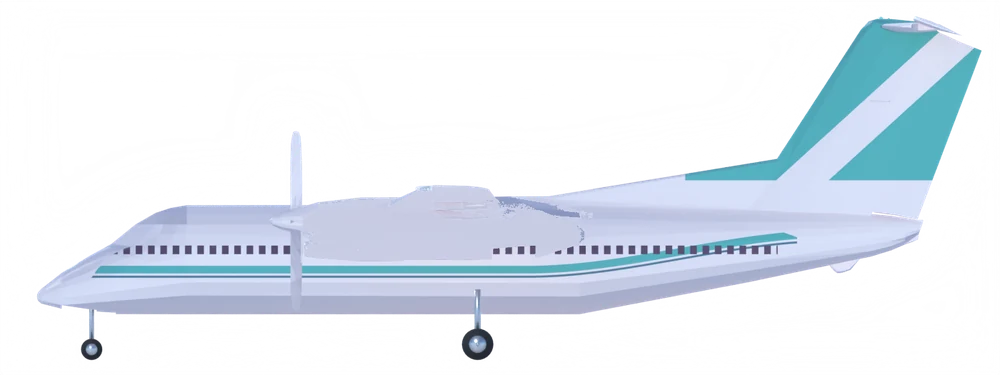
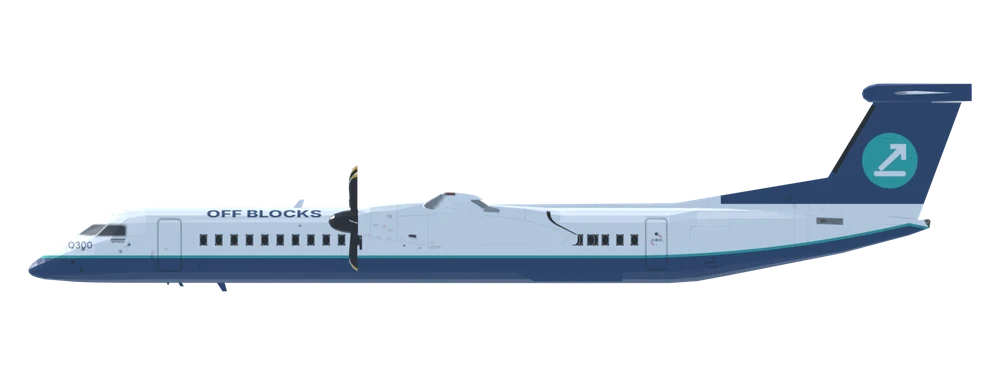
Off Blocks livery renders: turboprops (ATR72, Q400, Q300, SF340)
Claude-Session: https://claude.ai/code/session_01XrFePU9h1hCzy7p7tSHsYD

Changed region(s): [[0.031, 0.0293, 0.992, 0.968]]

diff --git a/sw.js b/sw.js
@@ -1,5 +1,5 @@
 /* Off Blocks service worker. Bump VER to push an update to installed copies. */
-const VER='ob-v48',CORE=["./", "index.html", "manifest.webmanifest", "network.json", "icons/icon-192.png", "icons/icon-512.png", "mapimg/detail.json", "mapimg/sat.webp", "mapimg/terrain.webp", "img/A19N.webp", "img/A19N_side.webp", "img/A20N.webp", "img/A20N_side.webp", "img/A21N.webp", "img/A21N_side.webp", "img/A21X.webp", "img/A21X_side.webp", "img/A306_side.webp", "img/A310.webp", "img/A310_side.webp", "img/A318.webp", "img/A318_side.webp", "img/A319.webp", "img/A319_side.webp", "img/A320.webp", "img/A320_side.webp", "img/A321.webp", "img/A321_side.webp", "img/A332_side.webp", "img/A333_side.webp", "img/A338.webp", "img/A338_side.webp", "img/A339.webp", "img/A339_side.webp", "img/A343_side.webp", "img/A346_side.webp", "img/A359_side.webp", "img/A35K.webp", "img/A35K_side.webp", "img/A388_side.webp", "img/AN24.webp", "img/AR21.webp", "img/AT42_side.webp", "img/AT76_side.webp", "img/B190.webp", "img/B37M.webp", "img/B37M_side.webp", "img/B38M.webp", "img/B38M_side.webp", "img/B39M.webp", "img/B39M_side.webp", "img/B3XM.webp", "img/B3XM_side.webp", "img/B712.webp", "img/B712_side.webp", "img/B722_side.webp", "img/B732.webp", "img/B732_side.webp", "img/B733_side.webp", "img/B734_side.webp", "img/B735.webp", "img/B735_side.webp", "img/B736_side.webp", "img/B737_side.webp", "img/B738_side.webp", "img/B739_side.webp", "img/B744_side.webp", "img/B748_side.webp", "img/B752.webp", "img/B752_side.webp", "img/B753.webp", "img/B753_side.webp", "img/B762.webp", "img/B762_side.webp", "img/B763_side.webp", "img/B764.webp", "img/B764_side.webp", "img/B772_side.webp", "img/B773.webp", "img/B773_side.webp", "img/B779.webp", "img/B779_side.webp", "img/B77L_side.webp", "img/B77W_side.webp", "img/B788_side.webp", "img/B789_side.webp", "img/B78X_side.webp", "img/BCS1_side.webp", "img/BCS3_side.webp", "img/C208.webp", "img/C208_side.webp", "img/C919.webp", "img/C919_side.webp", "img/CRJ2.webp", "img/CRJ2_side.webp", "img/CRJ7_side.webp", "img/CRJ9.webp", "img/CRJ9_side.webp", "img/CRJX_side.webp", "img/D328.webp", "img/DH8A.webp", "img/DH8A_side.webp", "img/DH8C_side.webp", "img/DH8D_side.webp", "img/DHC6_side.webp", "img/E120.webp", "img/E120_side.webp", "img/E135.webp", "img/E135_side.webp", "img/E140.webp", "img/E140_side.webp", "img/E145.webp", "img/E145_side.webp", "img/E170_side.webp", "img/E175_side.webp", "img/E190_side.webp", "img/E195.webp", "img/E195_side.webp", "img/E290_side.webp", "img/E295.webp", "img/E295_side.webp", "img/E75X.webp", "img/E75X_side.webp", "img/F100.webp", "img/F100_side.webp", "img/F50.webp", "img/F50_side.webp", "img/F70.webp", "img/F70_side.webp", "img/J41.webp", "img/L410.webp", "img/L410_side.webp", "img/MA60.webp", "img/MD83.webp", "img/MD83_side.webp", "img/MD90.webp", "img/MD90_side.webp", "img/RJ1H.webp", "img/RJ1H_side.webp", "img/RJ85.webp", "img/RJ85_side.webp", "img/SB20.webp", "img/SF34_side.webp", "img/T154.webp", "img/T154_side.webp"];
+const VER='ob-v49',CORE=["./", "index.html", "manifest.webmanifest", "network.json", "icons/icon-192.png", "icons/icon-512.png", "mapimg/detail.json", "mapimg/sat.webp", "mapimg/terrain.webp", "img/A19N.webp", "img/A19N_side.webp", "img/A20N.webp", "img/A20N_side.webp", "img/A21N.webp", "img/A21N_side.webp", "img/A21X.webp", "img/A21X_side.webp", "img/A306_side.webp", "img/A310.webp", "img/A310_side.webp", "img/A318.webp", "img/A318_side.webp", "img/A319.webp", "img/A319_side.webp", "img/A320.webp", "img/A320_side.webp", "img/A321.webp", "img/A321_side.webp", "img/A332_side.webp", "img/A333_side.webp", "img/A338.webp", "img/A338_side.webp", "img/A339.webp", "img/A339_side.webp", "img/A343_side.webp", "img/A346_side.webp", "img/A359_side.webp", "img/A35K.webp", "img/A35K_side.webp", "img/A388_side.webp", "img/AN24.webp", "img/AR21.webp", "img/AT42_side.webp", "img/AT76_side.webp", "img/B190.webp", "img/B37M.webp", "img/B37M_side.webp", "img/B38M.webp", "img/B38M_side.webp", "img/B39M.webp", "img/B39M_side.webp", "img/B3XM.webp", "img/B3XM_side.webp", "img/B712.webp", "img/B712_side.webp", "img/B722_side.webp", "img/B732.webp", "img/B732_side.webp", "img/B733_side.webp", "img/B734_side.webp", "img/B735.webp", "img/B735_side.webp", "img/B736_side.webp", "img/B737_side.webp", "img/B738_side.webp", "img/B739_side.webp", "img/B744_side.webp", "img/B748_side.webp", "img/B752.webp", "img/B752_side.webp", "img/B753.webp", "img/B753_side.webp", "img/B762.webp", "img/B762_side.webp", "img/B763_side.webp", "img/B764.webp", "img/B764_side.webp", "img/B772_side.webp", "img/B773.webp", "img/B773_side.webp", "img/B779.webp", "img/B779_side.webp", "img/B77L_side.webp", "img/B77W_side.webp", "img/B788_side.webp", "img/B789_side.webp", "img/B78X_side.webp", "img/BCS1_side.webp", "img/BCS3_side.webp", "img/C208.webp", "img/C208_side.webp", "img/C919.webp", "img/C919_side.webp", "img/CRJ2.webp", "img/CRJ2_side.webp", "img/CRJ7_side.webp", "img/CRJ9.webp", "img/CRJ9_side.webp", "img/CRJX_side.webp", "img/D328.webp", "img/DH8A.webp", "img/DH8A_side.webp", "img/DH8C_side.webp", "img/DH8D_side.webp", "img/DHC6_side.webp", "img/E120.webp", "img/E120_side.webp", "img/E135.webp", "img/E135_side.webp", "img/E140.webp", "img/E140_side.webp", "img/E145.webp", "img/E145_side.webp", "img/E170_side.webp", "img/E175_side.webp", "img/E190_side.webp", "img/E195.webp", "img/E195_side.webp", "img/E290_side.webp", "img/E295.webp", "img/E295_side.webp", "img/E75X.webp", "img/E75X_side.webp", "img/F100.webp", "img/F100_side.webp", "img/F50.webp", "img/F50_side.webp", "img/F70.webp", "img/F70_side.webp", "img/J41.webp", "img/L410.webp", "img/L410_side.webp", "img/MA60.webp", "img/MD83.webp", "img/MD83_side.webp", "img/MD90.webp", "img/MD90_side.webp", "img/RJ1H.webp", "img/RJ1H_side.webp", "img/RJ85.webp", "img/RJ85_side.webp", "img/SB20.webp", "img/SF34_side.webp", "img/T154.webp", "img/T154_side.webp"];
 self.addEventListener('install',e=>{e.waitUntil(caches.open(VER).then(c=>Promise.all(CORE.map(u=>c.add(u).catch(()=>0)))).then(()=>self.skipWaiting()))});
 self.addEventListener('activate',e=>{e.waitUntil(caches.keys().then(k=>Promise.all(k.filter(x=>x!==VER).map(x=>caches.delete(x)))).then(()=>self.clients.claim()))});
 self.addEventListener('fetch',e=>{const r=e.request,u=new URL(r.url);if(r.method!=='GET'||u.origin!==location.origin)return;

diff --git a/index.html b/index.html
@@ -180,7 +180,7 @@ const lvBase=src=>new Promise(res=>{if(LVI.base[src])return res(LVI.base[src]);c
 const PHOTOS_OFF={B39M:{src:'img/B39M_photo.webp',by:'Clemens Vasters',lic:'CC BY 2.0',lu:'https://creativecommons.org/licenses/by/2.0/',url:'https://commons.wikimedia.org/wiki/File:N7379E_-_Boeing_737_MAX_9.jpg',n:'Boeing 737 MAX 9'}};
 const PHOTOS={};
 /* types with a finished Off Blocks livery render: shown as-is, no repaint */
-const LVNAT={B38M:1,B39M:1,A318:1,A319:1,A320:1,A321:1,A19N:1,A20N:1,A21N:1,A21X:1,A332:1,A333:1,A338:1,A339:1,A343:1,A346:1,A359:1,A35K:1,B772:1,B773:1,B77L:1,B77W:1,B777:1,B779:1,B788:1,B789:1,B78X:1,B787:1,B752:1,B753:1,B762:1,B763:1,B764:1,E170:1,E175:1,E75L:1,E75X:1,E190:1,E195:1,E290:1,E295:1,CRJ7:1,CRJ2:1,CRJ9:1,CRJX:1,BCS1:1,BCS3:1};
+const LVNAT={B38M:1,B39M:1,A318:1,A319:1,A320:1,A321:1,A19N:1,A20N:1,A21N:1,A21X:1,A332:1,A333:1,A338:1,A339:1,A343:1,A346:1,A359:1,A35K:1,B772:1,B773:1,B77L:1,B77W:1,B777:1,B779:1,B788:1,B789:1,B78X:1,B787:1,B752:1,B753:1,B762:1,B763:1,B764:1,E170:1,E175:1,E75L:1,E75X:1,E190:1,E195:1,E290:1,E295:1,CRJ7:1,CRJ2:1,CRJ9:1,CRJX:1,BCS1:1,BCS3:1,AT76:1,AT72:1,AT75:1,AT73:1,DH8D:1,DH8C:1,DH8B:1,DH8A:1,SF34:1};
 const lvSrc=(c,v,l)=>LVI.cache[lvKey(c,v,l)]||'img/'+c+(v==='s'?'_side':'')+'.webp';
 /* natural white: the renders come out blue-grey, so lift and neutralise every light, low-saturation pixel (windows, gear and dark detail are left alone) */
 function lvRefL(d,A){const a=[];for(let i=0;i<A.length;i+=7){if(!A[i])continue;const j=i*4,r=d[j],g=d[j+1],b=d[j+2],mx=Math.max(r,g,b),lu=.3*r+.59*g+.11*b;if(lu>110&&(mx-Math.min(r,g,b))/(mx||1)<.36)a.push(lu)}if(!a.length)return 190;a.sort((p,q)=>p-q);return a[a.length>>1]}
